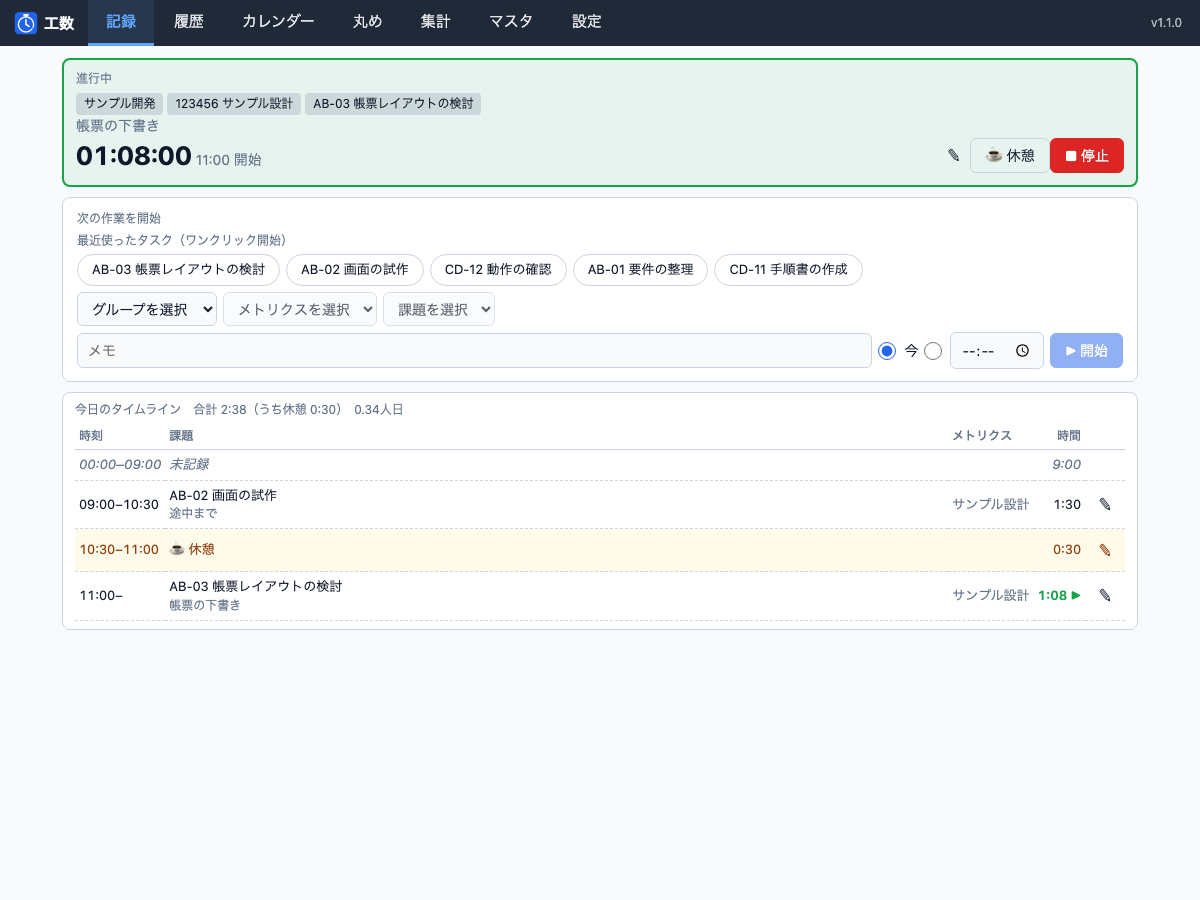
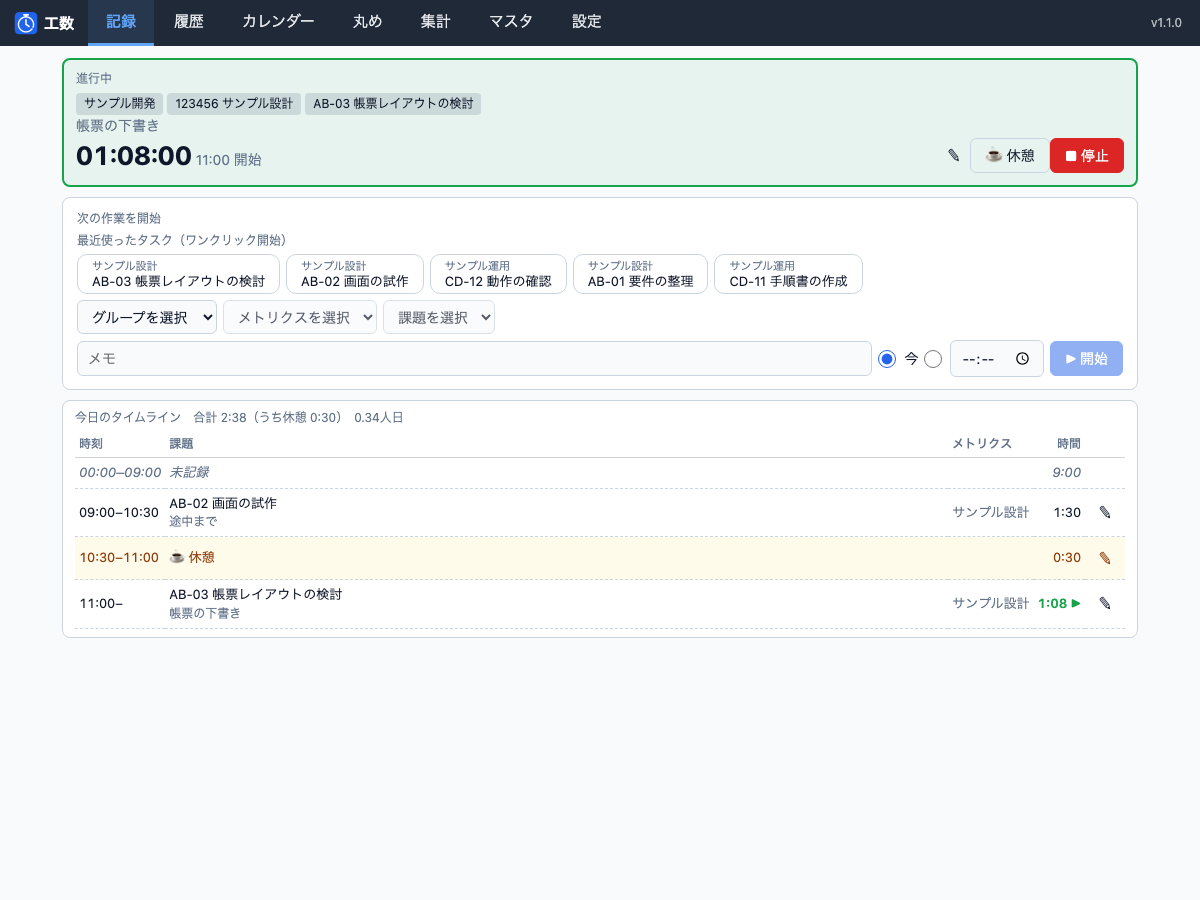
sync: df94f1f から同期

Changed region(s): [[0.0617, 0.28, 0.9558, 0.7156], [0.8017, 0.4667, 0.925, 0.6222], [0.8017, 0.4667, 0.8325, 0.4978]]

diff --git a/MANUAL.md b/MANUAL.md
@@ -169,7 +169,7 @@ docker compose up -d
 
 **どう操作するか**
 
-- 作業を始めるときは、下の「次の作業を開始」でグループ・メトリクス・課題を選び、必要ならメモを入れて「▶ 開始」を押します。「最近使ったタスク（ワンクリック開始）」のボタンなら、課題を選ばずにそのまま開始できます。この並びは直近に使ったものから出ます。
+- 作業を始めるときは、下の「次の作業を開始」でグループ・メトリクス・課題を選び、必要ならメモを入れて「▶ 開始」を押します。「最近使ったタスク（ワンクリック開始）」のボタンなら、課題を選ばずにそのまま開始できます。ボタンの上の段にはメトリクス名が小さく出ます。この並びは直近に使ったものから出ます。
 - 開始時刻は「今」のほか、時計の欄に時刻を入れて指定することもできます。押し忘れたときに、あとからその時刻に始めたことにできます。
 - 別の作業を始めると、前の作業はその時刻で終わります。作業をやめるときは「■ 停止」を押します。
 - 計測中は上の緑の枠（進行中）に、今の作業と経過時間が出ます。
@@ -220,6 +220,7 @@ docker compose up -d
 **どう操作するか**
 
 - 上の「◀」「▶」と日付で日を切り替えます。
+- 日付の下に、その日の「出勤（最初の作業の開始）〜 退勤（最後の作業の終了）」と休憩の合計が出ます。勤怠の登録に写すのに使えます。休憩は出勤・退勤に数えません。作業中なら退勤は「記録中」と出ます。
 - 「実績から下書き」を押すと、その日の実績を課題ごとにまとめ、設定した丸め単位と丸め方（4章）で丸めた案を作ってくれます。あとは必要な行だけ手で直します。
 - 丸めは `3:45` のほか `3.75` でも入力できます。「✕」でその行の丸めを消せるほか、「＋ 行を追加」で実績の無い課題の行も足せます。空欄の行は保存されません。
 - 行は「グループ」「メトリクス」「課題」に分かれて並び、グループ→メトリクスID→課題ID の順で出ます。
